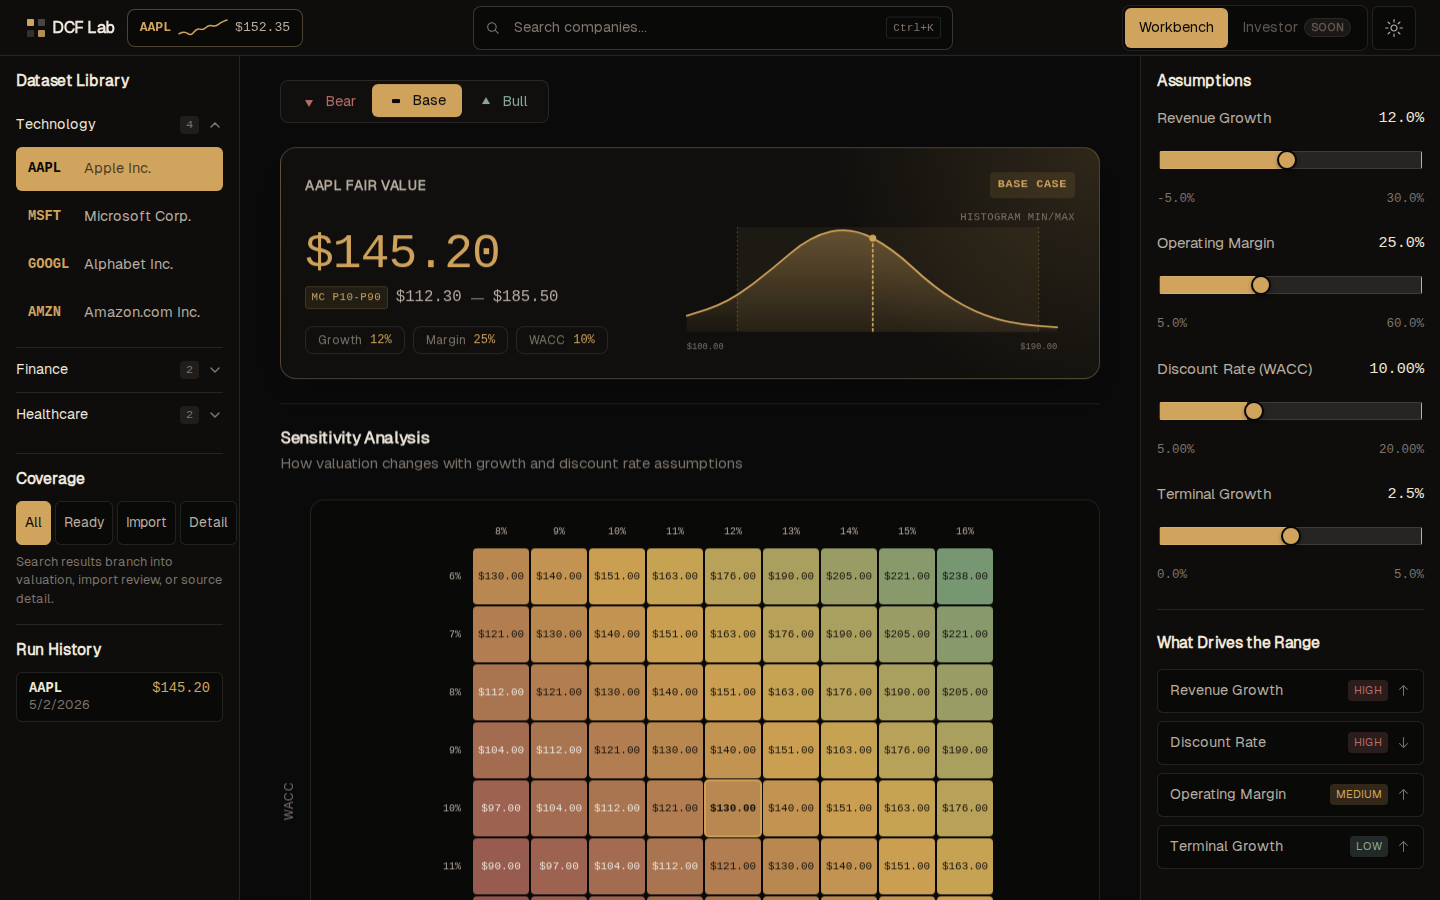
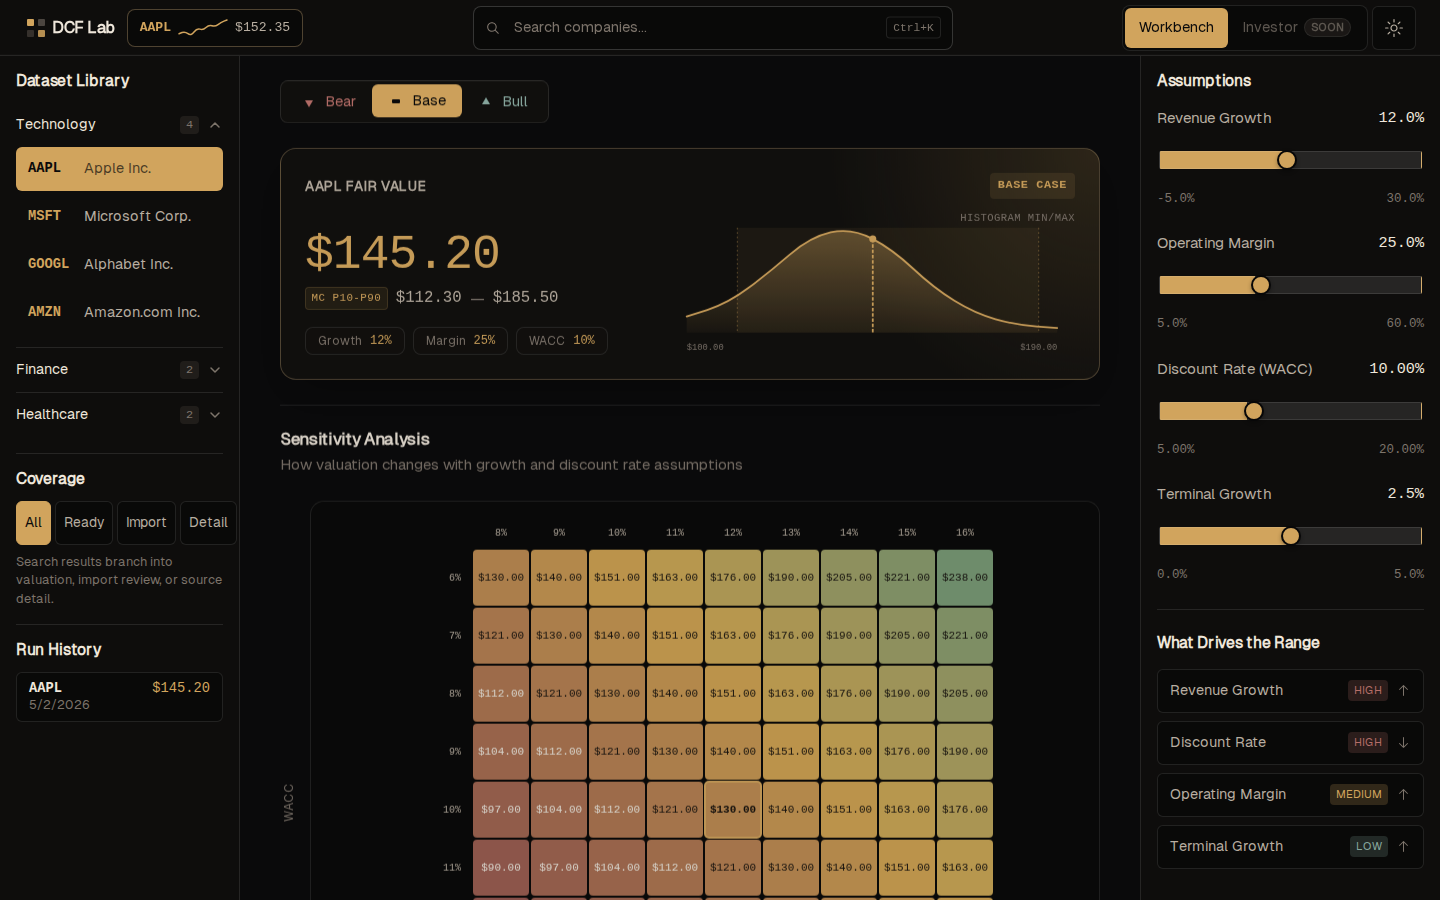
fix(docs): address Codex review feedback from OSS PR train
- Target Monte Carlo details panel in screenshot capture script; refresh asset
- Add react-dom and correct Convex (npm) license in THIRD_PARTY_NOTICES
- Split reviewer application paths so dev server does not block headless checks
- Document gitleaks --log-opts=--all after git fetch --all in release checklist

diff --git a/docs/oss-program-application.md b/docs/oss-program-application.md
@@ -12,21 +12,37 @@ DCF Dashboard is an open-source valuation workbench that pairs a Next.js UI with
 
 ## 15-minute reviewer script
 
+Shared setup (run once):
+
 ```bash
 git clone https://github.com/nostreet123/DCF-Dashboard.git
 cd DCF-Dashboard
 npm ci
 python3 -m venv .venv && . .venv/bin/activate
 python -m pip install -r python/requirements-dev.txt -c python/constraints.txt
+```
 
-# Path A — mock UI (fastest)
+Pick **one** path below. Paths are independent — do not run `npm run dev` in the same terminal if you plan to run Path B or C next.
+
+### Path A — mock UI (fastest)
+
+Terminal 1 (blocks until you stop the server):
+
+```bash
 NEXT_PUBLIC_DCF_DASHBOARD_MODE=demo npm run dev
-# open http://127.0.0.1:3000
+```
 
-# Path B — compute only (no UI)
+Open http://127.0.0.1:3000 in a browser. Expect mock tickers and valuation cards without Convex or EDGAR.
+
+### Path B — compute only (no UI)
+
+```bash
 npm run demo:compute
+```
 
-# Path C — repo health
+### Path C — repo health
+
+```bash
 npm run smoke:alive
 ```
 

diff --git a/docs/public-release-checklist.md b/docs/public-release-checklist.md
@@ -13,13 +13,17 @@ Use this immediately **before** switching the repository to public visibility or
 
 ## Security scan (maintainer workstation)
 
-Run on a fresh clone at the release tag or `main` tip:
+Run on a fresh clone at the release tag or `main` tip. For a **pre-public visibility switch**, fetch remote refs first so stale `pull/*` refs are included, then scan all reachable git history:
 
 ```bash
+git fetch --all --prune
+
 # Example: gitleaks 8.24.2
 gitleaks detect --source . --no-git -v
-gitleaks detect --source . -v   # include history on main lineage
+gitleaks detect --source . -v --log-opts="--all"
 ```
+
+The second command uses `git log` across **all refs** (not only the current branch). If you intentionally exclude stale PR refs, document that decision in Gate 0 instead of treating a single-branch scan as complete.
 
 Record a **redacted** summary in [public-release-safety-gate0.md](./public-release-safety-gate0.md) (never commit raw findings with secrets).
 

diff --git a/CHANGELOG.md b/CHANGELOG.md
@@ -19,6 +19,10 @@ The format is based on Keep a Changelog and the project follows Semantic Version
 
 ### Changed
 
+- Showcase Monte Carlo screenshot capture targets the `Monte Carlo` details panel (not the value-card P10 label)
+- OSS reviewer script splits mock UI dev server from headless verification paths
+- Public release checklist documents `gitleaks` with `--log-opts="--all"` after `git fetch --all`
+- `THIRD_PARTY_NOTICES.md`: add `react-dom`, correct npm `convex` license to Apache-2.0
 - Golden-path onboarding links now point at `docs/ONBOARDING.md` instead of audit-only docs
 - Roadmap items include acceptance criteria for contributor-friendly follow-up work
 

diff --git a/THIRD_PARTY_NOTICES.md b/THIRD_PARTY_NOTICES.md
@@ -19,7 +19,8 @@ For the full dependency graph and exact versions, use:
 |---------|---------|------|
 | [Next.js](https://www.npmjs.com/package/next) | MIT | Web framework and API routes |
 | [React](https://www.npmjs.com/package/react) | MIT | UI |
-| [Convex](https://www.npmjs.com/package/convex) | MIT | Optional persistence client |
+| [react-dom](https://www.npmjs.com/package/react-dom) | MIT | UI rendering |
+| [Convex](https://www.npmjs.com/package/convex) | Apache-2.0 | Optional persistence client |
 | [clsx](https://www.npmjs.com/package/clsx) | MIT | CSS class utilities |
 | [@radix-ui/react-icons](https://www.npmjs.com/package/@radix-ui/react-icons) | MIT | Icons |
 